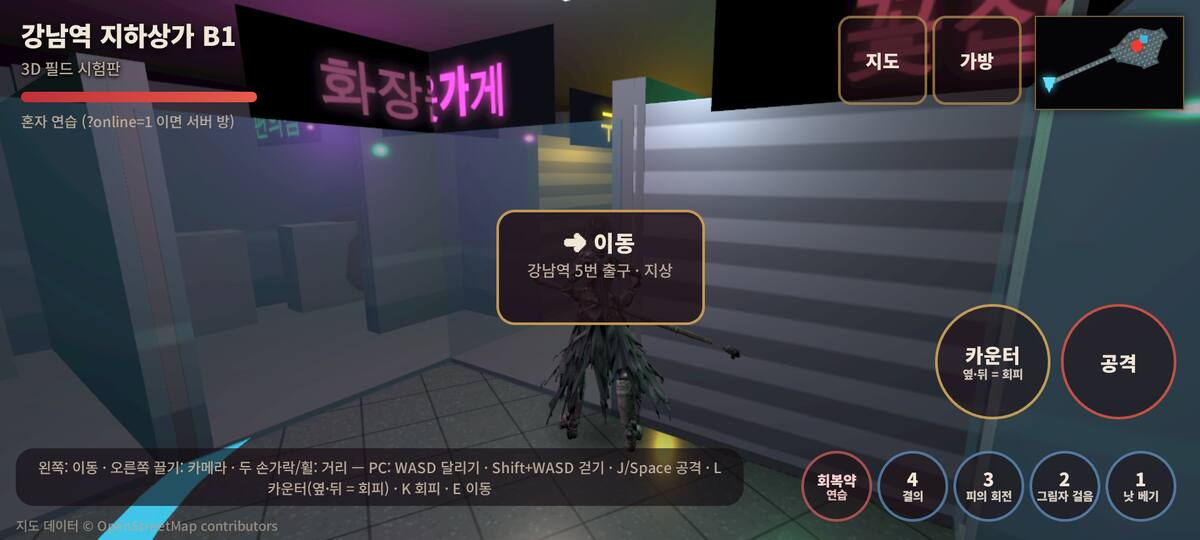
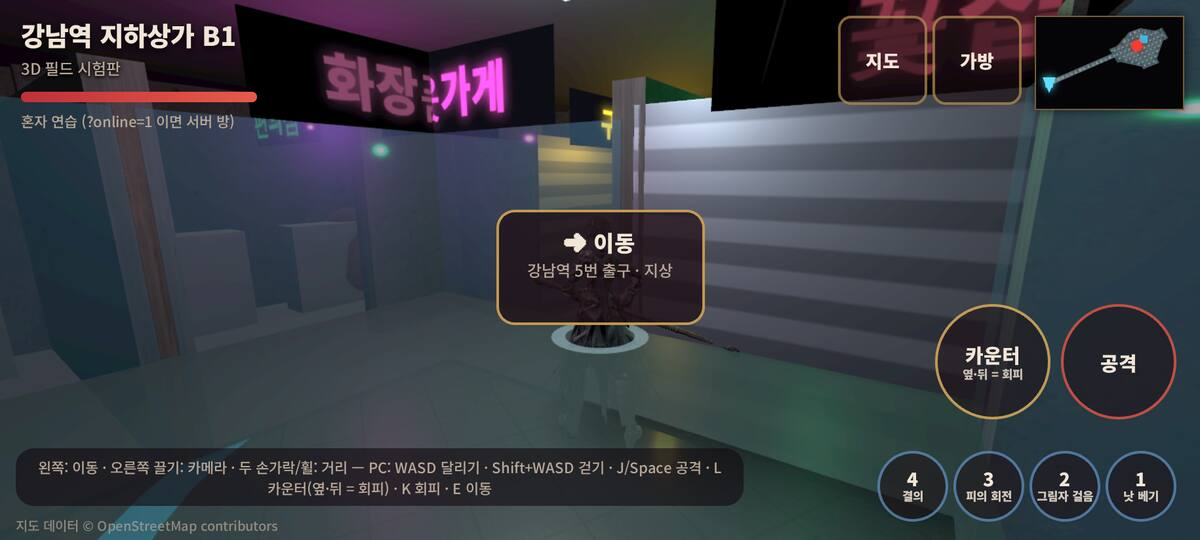
3D 필드 회복약 단추 제거 (디렉터 «회복약은 빼자») · GPT 보스 지시서 (정지 보스 다섯 기술표 AI · 몸 없는 둘)
Claude-Session: https://claude.ai/code/session_01RgVgsjzbv3WmTrjJksX3L1

diff --git a/world3d.html b/world3d.html
@@ -31,7 +31,6 @@ canvas{ display:block; width:100vw; height:100vh; }
 #dead[hidden]{ display:none; }
 .btn{ position:absolute; pointer-events:auto; border-radius:50%; border:2px solid rgba(232,184,96,.55); background:rgba(30,14,20,.55); color:var(--ink); font:900 15px 'Noto Sans KR',sans-serif; display:flex; align-items:center; justify-content:center; touch-action:none; user-select:none; -webkit-user-select:none; }
 #atk{ width:84px; height:84px; right:max(18px,env(safe-area-inset-right)); bottom:calc(max(14px,env(safe-area-inset-bottom)) + 44px); border-color:rgba(232,90,74,.8); }
-#pot{ width:64px; height:64px; right:calc(max(18px,env(safe-area-inset-right)) + 96px); bottom:calc(max(14px,env(safe-area-inset-bottom)) + 120px); border-color:rgba(255,110,110,.6); flex-direction:column; line-height:1; color:#ffd0d0; }
 #bagBtn{ width:64px; height:64px; border-radius:10px; right:calc(max(12px,env(safe-area-inset-right)) + 144px); top:calc(max(12px,env(safe-area-inset-top))); font-size:14px; }
 #bagBtn.safe{ border-color:rgba(120,230,190,.8); color:#bff5e2; box-shadow:0 0 12px rgba(80,220,170,.35); font-size:12px; text-align:center; line-height:1.2; }
 @media (max-height:500px){ #bagBtn{ right:calc(max(12px,env(safe-area-inset-right)) + 124px); } }
@@ -43,10 +42,9 @@ body.kmapOpen #hud{ visibility:hidden; }   /* 지도가 열려 있는 동안 HUD
 #kmap .kwrap{ display:flex; gap:14px; width:100%; height:100%; align-items:center; justify-content:center; } #kmap svg{ flex:0 1 auto; height:100%; max-width:62%; }
 #kmap aside{ flex:0 1 260px; max-height:100%; overflow:auto; color:var(--ink); } #kmap aside h3{ margin:0 0 8px; font-size:16px; color:#c9a45e; } #kmap aside ul{ list-style:none; margin:0; padding:0; } #kmap aside li{ padding:8px 10px; margin-bottom:6px; border-radius:10px; background:rgba(255,255,255,.06); } #kmap aside li b{ display:block; font-size:15px; } #kmap aside li small{ color:var(--dim); font-size:12px; }
 @media (orientation:portrait){ #kmap .kwrap{ flex-direction:column; } #kmap svg{ height:auto; max-height:64%; max-width:100%; width:100%; } #kmap aside{ flex:0 1 auto; width:100%; max-height:32%; } } #kmapX{ position:absolute; top:max(12px,env(safe-area-inset-top)); right:max(12px,env(safe-area-inset-right)); min-width:64px; min-height:64px; border-radius:12px; border:2px solid rgba(232,184,96,.7); background:rgba(30,14,20,.85); color:var(--ink); font:900 16px 'Noto Sans KR',sans-serif; }
-#pot b{ font-size:12px; } #pot em{ font-style:normal; font-size:11px; font-weight:700; opacity:.85; margin-top:3px; } #pot.none{ opacity:.45; }
 .dmg.heal{ color:#8fe0a0; }
 /* 조작 배치 — 디렉터 손그림(2026-10-13): 왼쪽 이동키 · 오른쪽 «카운터 · 공격» 큰 단추 둘 · 그 아래 «스킬» 작은 원 한 줄.
-   큰 둘은 같은 줄(공격 오른쪽, 카운터 왼쪽) · 스킬 1~4 + 회복약은 50 px 원으로 맨 아랫줄(오른쪽부터 1 2 3 4 약) */
+   큰 둘은 같은 줄(공격 오른쪽, 카운터 왼쪽) · 스킬 1~4 는 50 px 원으로 맨 아랫줄(오른쪽부터 1 2 3 4). 회복약 단추는 뺐다(디렉터 2026-10-13 «회복약은 빼자» — Q 키 · 가방에서 쓴다) */
 .btn.skb{ width:50px; height:50px; flex-direction:column; line-height:1.05; border-color:rgba(120,190,255,.55); font-size:11px; }
 .btn.skb b{ font-size:14px; } .btn.skb em{ font-style:normal; font-size:9px; font-weight:700; opacity:.85; margin-top:1px; max-width:46px; overflow:hidden; white-space:nowrap; text-overflow:ellipsis; }
 .btn.skb i.skcd{ position:absolute; inset:0; border-radius:50%; background:rgba(8,6,12,.62); display:flex; align-items:center; justify-content:center; font:900 16px 'Noto Sans KR',sans-serif; font-style:normal; color:#e8f4ff; }
@@ -58,21 +56,17 @@ body.kmapOpen #hud{ visibility:hidden; }   /* 지도가 열려 있는 동안 HUD
 #sk2{ right:calc(max(18px,env(safe-area-inset-right)) + 58px); bottom:max(14px,env(safe-area-inset-bottom)); }
 #sk3{ right:calc(max(18px,env(safe-area-inset-right)) + 116px); bottom:max(14px,env(safe-area-inset-bottom)); }
 #sk4{ right:calc(max(18px,env(safe-area-inset-right)) + 174px); bottom:max(14px,env(safe-area-inset-bottom)); }
-#pot{ width:50px; height:50px; right:calc(max(18px,env(safe-area-inset-right)) + 232px); bottom:max(14px,env(safe-area-inset-bottom)); }
-#pot b{ font-size:11px; } #pot em{ font-size:9px; margin-top:1px; }
 /* 낮은 가로 화면 (문서 220 §18) — 디렉터 폰 브라우저 가로는 750×298(주소창). 큰 둘 76 px · 작은 줄 44 px — 위 끝이 바닥에서 182 px (298 화면에서 미니맵 아래 10 px) */
 @media (orientation:landscape) and (max-height:360px){
   #atk{ width:76px; height:76px; bottom:calc(max(14px,env(safe-area-inset-bottom)) + 66px); }
   #ctr{ width:76px; height:76px; right:calc(max(18px,env(safe-area-inset-right)) + 86px); bottom:calc(max(14px,env(safe-area-inset-bottom)) + 66px); }
-  .btn.skb,#pot{ width:44px; height:44px; }
+  .btn.skb{ width:44px; height:44px; }
   #sk1{ right:calc(max(18px,env(safe-area-inset-right)) + 0px); bottom:calc(max(14px,env(safe-area-inset-bottom)) + 10px); }
   #sk2{ right:calc(max(18px,env(safe-area-inset-right)) + 52px); bottom:calc(max(14px,env(safe-area-inset-bottom)) + 10px); }
   #sk3{ right:calc(max(18px,env(safe-area-inset-right)) + 104px); bottom:calc(max(14px,env(safe-area-inset-bottom)) + 10px); }
   #sk4{ right:calc(max(18px,env(safe-area-inset-right)) + 156px); bottom:calc(max(14px,env(safe-area-inset-bottom)) + 10px); }
-  #pot{ right:calc(max(18px,env(safe-area-inset-right)) + 208px); bottom:calc(max(14px,env(safe-area-inset-bottom)) + 10px); }
 }
-@media (orientation:portrait){   /* 세로: 스킬 줄이 왼쪽 이동 자리(화면 45%)까지 닿지 않게 — 회복약은 공격 위로 */
-  #pot{ right:max(18px,env(safe-area-inset-right)); bottom:calc(max(14px,env(safe-area-inset-bottom)) + 172px); }
+@media (orientation:portrait){   /* 세로: 안내 띠를 단추 위로 */
   #hint{ bottom:calc(max(14px,env(safe-area-inset-bottom)) + 236px); max-width:calc(100vw - 32px); }   /* 안내 띠가 스킬 줄을 덮었다 — 단추들 위로 */
 }
 @media (orientation:portrait){   /* 세로: 체력 막대가 가방 단추를 8 px 덮었다 · 지도 출처는 아래 안내 띠와 겹쳐 미니맵 밑으로 */
@@ -117,7 +111,7 @@ body.kmapOpen #hud{ visibility:hidden; }   /* 지도가 열려 있는 동안 HUD
 <body>
 <canvas id="c"></canvas>
 <div id="mini" hidden></div><div id="areaName"></div>
-<div id="benchCard" hidden></div><div id="hud"><div id="title">—<small>3D 필드 시험판</small></div><div id="ring"><i></i></div><div id="hpw"><i id="hp"></i></div><div id="dead" hidden>쓰러졌다<br><small>5초 뒤 출발점</small></div><div id="dmgs"></div><div id="net"></div><div id="dbg" hidden></div><div id="toast" hidden></div><div id="gatebtn" hidden></div><div class="btn" id="ctr">카운터<small>옆·뒤 = 회피</small></div><div class="btn none" id="pot"><b>회복약</b><em>—</em></div><div class="btn" id="atk">공격</div><div class="btn" id="bagBtn">가방</div><div class="btn" id="mapBtn">지도</div><div class="btn skb" id="sk1" hidden></div><div class="btn skb" id="sk2" hidden></div><div class="btn skb" id="sk3" hidden></div><div class="btn skb" id="sk4" hidden></div><div id="hint">왼쪽: 이동 · 오른쪽 끌기: 카메라 · 두 손가락/휠: 거리 — PC: WASD 달리기 · Shift+WASD 걷기 · J/Space 공격 · L 카운터(옆·뒤 = 회피) · K 회피 · E 이동</div><div id="osm">지도 데이터 © OpenStreetMap contributors</div></div>
+<div id="benchCard" hidden></div><div id="hud"><div id="title">—<small>3D 필드 시험판</small></div><div id="ring"><i></i></div><div id="hpw"><i id="hp"></i></div><div id="dead" hidden>쓰러졌다<br><small>5초 뒤 출발점</small></div><div id="dmgs"></div><div id="net"></div><div id="dbg" hidden></div><div id="toast" hidden></div><div id="gatebtn" hidden></div><div class="btn" id="ctr">카운터<small>옆·뒤 = 회피</small></div><div class="btn" id="atk">공격</div><div class="btn" id="bagBtn">가방</div><div class="btn" id="mapBtn">지도</div><div class="btn skb" id="sk1" hidden></div><div class="btn skb" id="sk2" hidden></div><div class="btn skb" id="sk3" hidden></div><div class="btn skb" id="sk4" hidden></div><div id="hint">왼쪽: 이동 · 오른쪽 끌기: 카메라 · 두 손가락/휠: 거리 — PC: WASD 달리기 · Shift+WASD 걷기 · J/Space 공격 · L 카운터(옆·뒤 = 회피) · K 회피 · E 이동</div><div id="osm">지도 데이터 © OpenStreetMap contributors</div></div>
 <div id="hurt"></div><div id="load">3D 필드를 세우는 중…</div><div id="travel"></div><div id="regionCard"></div><div id="kmap" hidden><button id="kmapX">닫기</button></div><script>/* 이동 카드를 모듈보다 먼저 — 모듈을 받는 동안 «3D 필드를 세우는 중…» 맨 글자가 번쩍였다 (문서 219) */
 try { var tv = JSON.parse(sessionStorage.getItem('tw:travel') || 'null'), zq = new URLSearchParams(location.search).get('zone'); if (tv && tv.to === zq && Date.now() - tv.at < 120000) { var L0 = document.getElementById('load'), e = function (t) { return String(t == null ? '' : t).replace(/[<>&"]/g, ''); }; L0.className = 'tv'; L0.innerHTML = '<b>' + e(tv.toTitle || zq) + '</b><small>' + e(tv.label) + '</small><i>' + e(tv.fromTitle) + '에서 길을 따라 오는 중…</i>'; } } catch (err) {}
 </script>
@@ -534,12 +528,12 @@ function safeTick() { const a = window.TW_SAFE ? TW_SAFE.safeArea(meta.areas, ro
   bagBtn.classList.toggle('safe', !!a); bagBtn.innerHTML = a ? '가방<br>상점' : '가방'; if (a && !was && net) toast(a.name + ' — 가방에서 상점·창고를 쓸 수 있다', 2.2); BAG.safeChanged(); }
 const POTION_HEAL = 0.35, POTION_GAP = 1000, potEl = document.getElementById('pot');
 function potCount() { return net ? ((net.profile && net.profile.items) || {}).c_potion || 0 : Infinity; }
-function potShow() { const n = potCount(); potEl.querySelector('em').textContent = n === Infinity ? '연습' : String(n); potEl.classList.toggle('none', !n); }
+function potShow() { if (!potEl) return; const n = potCount(); potEl.querySelector('em').textContent = n === Infinity ? '연습' : String(n); potEl.classList.toggle('none', !n); }
 function drink() { if (P.dead) return;
   if (net) { if (!potCount()) { toast('회복약이 없습니다 — 마을·쉼터에서 가방 → 상점', 2.5); return; } net.send({ type: 'fieldBag', op: 'use', item: 'c_potion' }); return; }
   if (gameNow < (P.potionReady || 0)) { toast('회복약은 잠시 뒤에', 1.2); return; } if (P.hp >= P.maxHp) { toast('HP 가 가득 찼습니다', 1.2); return; }
   const heal = Math.round(P.maxHp * POTION_HEAL); P.hp = Math.min(P.maxHp, P.hp + heal); P.potionReady = gameNow + POTION_GAP; floatAt('+' + heal.toLocaleString('ko-KR'), 'heal', root.position, 2.0); }
-potEl.addEventListener('pointerdown', e => { e.stopPropagation(); drink(); }); addEventListener('keydown', e => { if (e.code === 'KeyQ') drink(); });
+if (potEl) potEl.addEventListener('pointerdown', e => { e.stopPropagation(); drink(); }); addEventListener('keydown', e => { if (e.code === 'KeyQ') drink(); });
 for (const [id, fn] of [['atk', attack], ['ctr', counter]]) document.getElementById(id).addEventListener('pointerdown', e => { e.stopPropagation(); fn(); });
 /* 떠오르는 숫자 — 게임 시간으로 지운다 */
 const floats = [], dmgsEl = document.getElementById('dmgs'), v3 = new THREE.Vector3();

diff --git a/docs/gpt/2026-10-13-bosses-all.md b/docs/gpt/2026-10-13-bosses-all.md
@@ -1,0 +1,59 @@
+# 보스 전부 넣기 — 정지 보스 다섯의 AI · 몸 없는 둘의 몸 (2026-10-13)
+
+디렉터: «보스는 다 넣어야지. 보스는 GPT 가, 던전 구현은 Claude 가.» (2026-10-13)
+이 한 장만 보면 되게 썼다. 던전 지형·빛·물·조작 화면은 Claude 가 같은 시간에 손대고 있으니 **아래 «지켜 줄 것»의 파일은 건드리지 않는다.**
+
+## 1. 지금 어디까지 있나 (3D 필드 `world3d.html` 기준)
+
+| 보스 | 지역 (`js/mmo/zones.js`) | 몸 | 싸움 | 비고 |
+|---|---|---|---|---|
+| 클레이브 clave · clave2 | gangnam_b1 · gangnam_b2 | `art/3d/part1/clave.glb` (클립 20) | **있음** `server/field-boss-combat.cjs` (3페이즈·기술 3·반격창·셔터) | 기준 보스 (문서 206 §11 · 221) |
+| 섀도우 팽 shadowfang | southroad | `shadow_fang.glb` | **있음** `server/field-boss-kit.cjs` KITS.shadowfang | 기술표형 첫 보스 (문서 222) |
+| 실험체 09호 subject09 | pangyo_lab | `subject_09.glb` | **있음** KITS.subject09 | |
+| 정 장관 jeong | goheung (필드) | `minister_jeong_candidate.glb` + 군도 | **있음** KITS.jeong | 문서 223 |
+| 레비아탄 leviathan | hangang_tunnel (차수문 3-B) | `leviathan_static.glb` — **정지, 뼈·클립 없음** | 없음 | EP08~09 |
+| 에이지스-07 aegis | yeouido (필드, 빌딩 협곡) | `aegis_07_static.glb` 정지 | 없음 | EP06~07 |
+| 셀레스티얼 celestial2 | southroad (골짜기) | `celestial_static.glb` 정지, `fly: 3.4` | 없음 | EP17 |
+| 아스널 오버로드 arsenal | gyeryong_base (주 격납고) | `arsenal_overlord_static.glb` 정지, h 10 | 없음 | EP21~22 «포탑 열여덟» |
+| 나노-노바 코어 nova | goheung_pad (발사대 지하 방) | `nano_nova_core.glb` 정지, h 6 | 없음 | EP27 «결정 산이 곧 보스» |
+| 케이블카 드로퍼 dropper | namsan_tower (옛 식당) | **없음** (`model: null`) | 없음 | EP05 «천장에서 떨어지는 넷» |
+| 박 준장 park | gyeryong_base (소독약 복도) | **없음** | 없음 | EP23 |
+| 지배형 다섯 | 필드 | 영웅 몸 재사용 | 있음 `server/field-dominator.cjs` | 건드릴 것 없음 |
+
+정지 보스 다섯은 지금 «서 있는 모델 + 이름표 + 등장·사망 장면(문서 221)» 뿐이다. 때리면 피가 줄고 죽지만 **아무것도 하지 않는다.**
+스토리 던전(`game3d.html` d03~d07 상자 보스)은 디렉터가 **보류** — 이번엔 손대지 않는다.
+
+## 2. 할 것
+
+### 2.1 정지 보스 다섯에 기술표형 AI (`server/field-boss-kit.cjs`)
+
+- `KITS` 에 `leviathan` · `aegis` · `celestial2` · `arsenal` · `nova` 를 더한다. 모양은 `shadowfang` 과 같다: `aggro · leash · walk · ret · engage · recovery · phases · open · skills{ clip, duration, reach, hits[], tells[], counter?, lift?, move?, cue?, jitter? } · weights(d, phase)`.
+- `enabled(o)` 는 `kitOf(o)` — `KITS[o.id]` 가 있으면 켜진다. `server/field.cjs` 는 이미 모든 보스에 `KIT.setup/tick/reset/tryCounter/view` 를 부른다(206·211·217·225·293 줄). **field.cjs 는 손댈 것 없다.**
+- 움직이지 않는 보스(레비아탄·아스널·노바·에이지스)는 `walk: 0 · leash` 크게 · `move` 없이 — 기술은 «몸은 그대로, 판정만» (포탑 사격·결정 파열·수압 충격파·보이지 않는 벽 밀어내기). 셀레스티얼은 `fly: 3.4` 라 `lift` 로 내려앉았다 오르는 식.
+- 기술 설계 재료: `docs/design/181-boss-skill-refs-souls.md` (§2 제1부 보스별 안 · §7 애니매틱) · `docs/design/18-boss-fight-design.md` (연계 2~3타 · 지연타는 보스당 하나 · 반격창은 마지막 타 · 마무리 후딜) · 원작 묘사 `docs/story/`.
+- **클립이 없는 몸**: `js/mmo/kit-motion.js` 는 `skills[].clip` 이 모델에 없으면 `kacts.idle` 로 떨어지고(32 줄), 없으면 null — 예고(바닥 고리·빛·소리)와 판정은 그대로 나간다. 그러니 정지 모델도 기술표만으로 싸울 수 있다. 다만 «몸이 안 움직이는 보스전» 은 읽기가 나쁘다 → §2.3.
+- 시험: `tests/field-boss-kit.test.cjs` · `tests/kit-motion.test.mjs` 를 보스마다 늘린다(박자·판정 모양·반격창·단계 전환). **일부러 어긋나게 해서 실패하는지** 보고 넣는다 (CLAUDE.md §4).
+- 혼자 연습(world3d)은 이 파일을 `loadCjs` 로 그대로 읽는다(`world3d.html` «기술표형 보스 — 섀도우 팽부터»). `KIT.enabled({ id })` 가 참이면 `setupKitMotion` 이 붙는다 — 클라 쪽은 **아무것도 안 바꿔도** 새 기술표가 보인다. 바닥 예고 색·반경·처치 문구는 `js/mmo/boss-stage.js BOSS_STAGES` 에 이미 보스마다 있다.
+
+### 2.2 서버 배포
+
+- `server/**` 변경 → Render `hwanghon-party` 재배포 (GPT 몫). `render.yaml buildFilter` 가 들어가 있어 서버 파일 커밋만 짓는다 (`docs/gpt/2026-10-13-render-build-filter.md`).
+- 올릴 때는 **브랜치** (`gpt/bosses-kit`) 로 올리고 알려 달라 — Claude 가 2인 3D 로 검수(`node tools/field-mob-scenario.mjs` 식) 한 뒤 main 에 합친다. 그 사이 Claude 가 main 에 던전 지형을 계속 올리므로 **main 에서 자주 rebase**.
+
+### 2.3 몸이 없는 둘 · 정지 모델에 동작 (Hi3D 크레딧 — 디렉터 결정 필요)
+
+- 드로퍼(dropper) · 박 준장(park): 턴어라운드 → Hi3D → `tools/3d/rig_boss_template.py` (사람 뼈대 23뼈 + 클립 18 자동 입힘, 문서 151 §2). 박 준장은 사람 몸이라 바로 되고, 드로퍼는 «천장에서 떨어지는» 비인간 → `--static` + `lift` 로.
+- 정지 모델 다섯에 최소 동작(흔들림·열림·회전)을 넣으려면 `tools/3d/boss_takes.py` 식으로 클립을 굽는다. Hi3D 자격증명은 환경변수 `HI3D_CLIENT_ID / HI3D_CLIENT_SECRET` 만 — 커밋 금지, 세션 흔적(`hi3d-cookie.*` 등) 밖으로 내보내지 않기 (CLAUDE.md §5).
+
+## 3. 지켜 줄 것
+
+- **손대지 않는 파일(Claude 가 같은 시간에 편집 중)**: `world3d.html` · `js/mmo/env-indoor.js` · `js/mmo/env-dungeon.js` · `js/mmo/env-lib.js` · `js/mmo/ph-tex.js` · `js/mmo/zones.js` 의 `indoor:` 블록(보스 줄 `bosses:[…]` 는 고쳐도 된다) · `css/*` · 던전 지도 `maps/2d/*`.
+- 보스 체력·단계는 클라에 안 보낸다 («얼마나 남았는지 모르고 때린다», `tests/field-clave-combat`).
+- 등장 반경(`BOSS_STAGES[].introR`) > 공격 반경(`aggro`) — 등장 장면 중엔 몸이 멈추니 보스가 먼저 덤비면 안 된다 (`tests/boss-stage.test.mjs` 가 본다).
+- `npm test` 통과. 휴대폰(Pixel 7 가로·세로)에서 한 번 찍어 보고 이미지를 붙인다.
+- 커밋 메시지·코드에 모델 이름을 적지 않는다.
+
+## 4. 디렉터에게 남은 질문
+
+1. 드로퍼·박 준장 몸을 Hi3D 로 뽑을까요 (크레딧)? 아니면 당분간 지배형처럼 영웅 몸 재사용?
+2. 정지 모델 다섯은 «몸은 그대로, 판정만» 으로 먼저 갈까요, 클립을 굽고 갈까요?

diff --git a/docs/design/231-boss-dungeons.md b/docs/design/231-boss-dungeons.md
@@ -31,7 +31,7 @@ CLAUDE.md §1.6 — 배경은 묻지 않고, 노는 방식은 먼저 묻는다.
 | 이동키 | 그대로 (왼쪽 45% 어디나 누르면 스틱) |
 | 카운터 | 회피 단추 자리에 84 px «카운터 · 옆·뒤 = 회피». 던전 L 단추와 같은 뜻 — 이동키를 옆·뒤로 밀고 있으면 회피, 아니면 **맞대기**(`counter` 클립 한 타 → `strike`). 반격 창 안에 닿으면 반격 ×1.65 + 보스 경직, 밖이면 보통 한 타. 서버는 손대지 않았다(온라인도 같은 `fieldHit`). PC 는 L |
 | 공격 | 84 px, 같은 줄 오른쪽 |
-| 스킬 ○○○ | 1~4 + 회복약을 **50 px 한 줄** 로 맨 아래 (오른쪽부터 1 2 3 4 약). 그림은 셋인데 우리 표는 넷 + 약 — 줄일지 디렉터에게 물었다 |
+| 스킬 ○○○ | 1~4 를 **50 px 한 줄** 로 맨 아래 (오른쪽부터 1 2 3 4). 회복약 단추는 뺐다(디렉터 «회복약은 빼자» — Q 키·가방). 스토리 던전 조작은 디렉터가 보류 |
 
 낮은 가로(750×298)는 큰 둘 76 px · 작은 줄 44 px (위 끝 162 px — 미니맵과 안 겹침, `tests/world3d-bench.test.mjs`). 세로는 회복약을 공격 위로 (스킬 줄이 이동 자리까지 안 닿게) · 안내 띠를 단추 위로.
 
